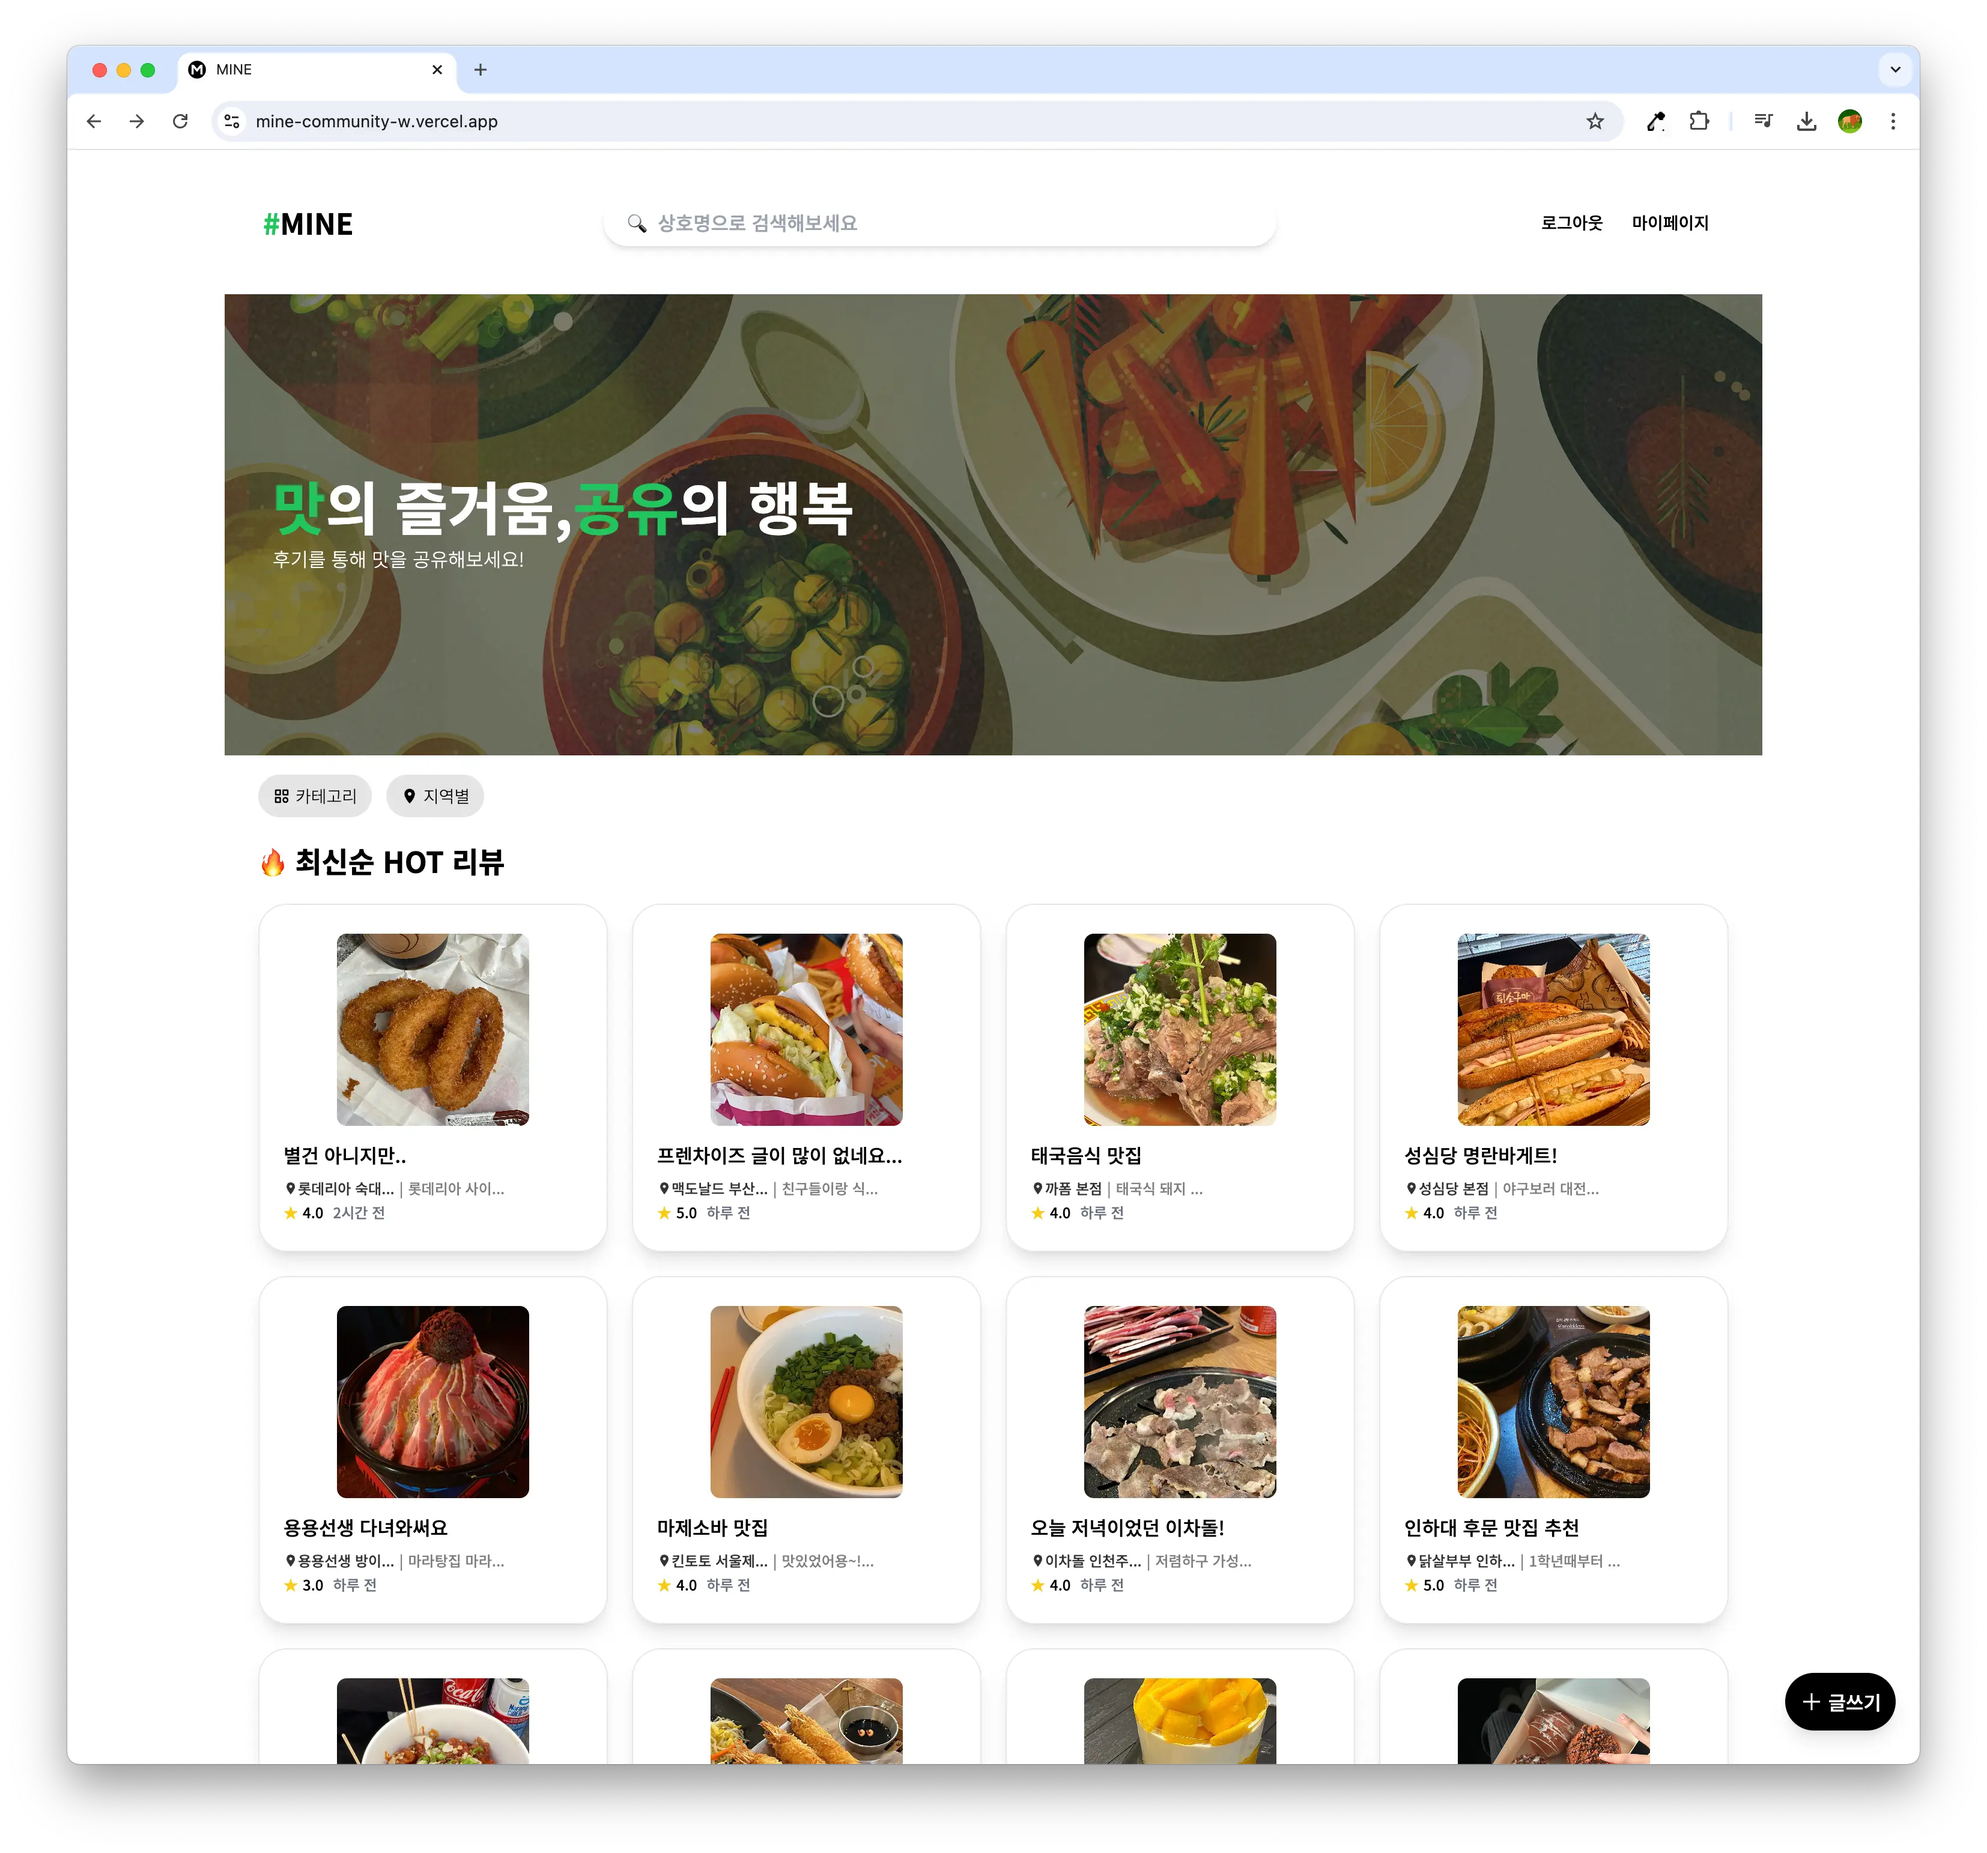
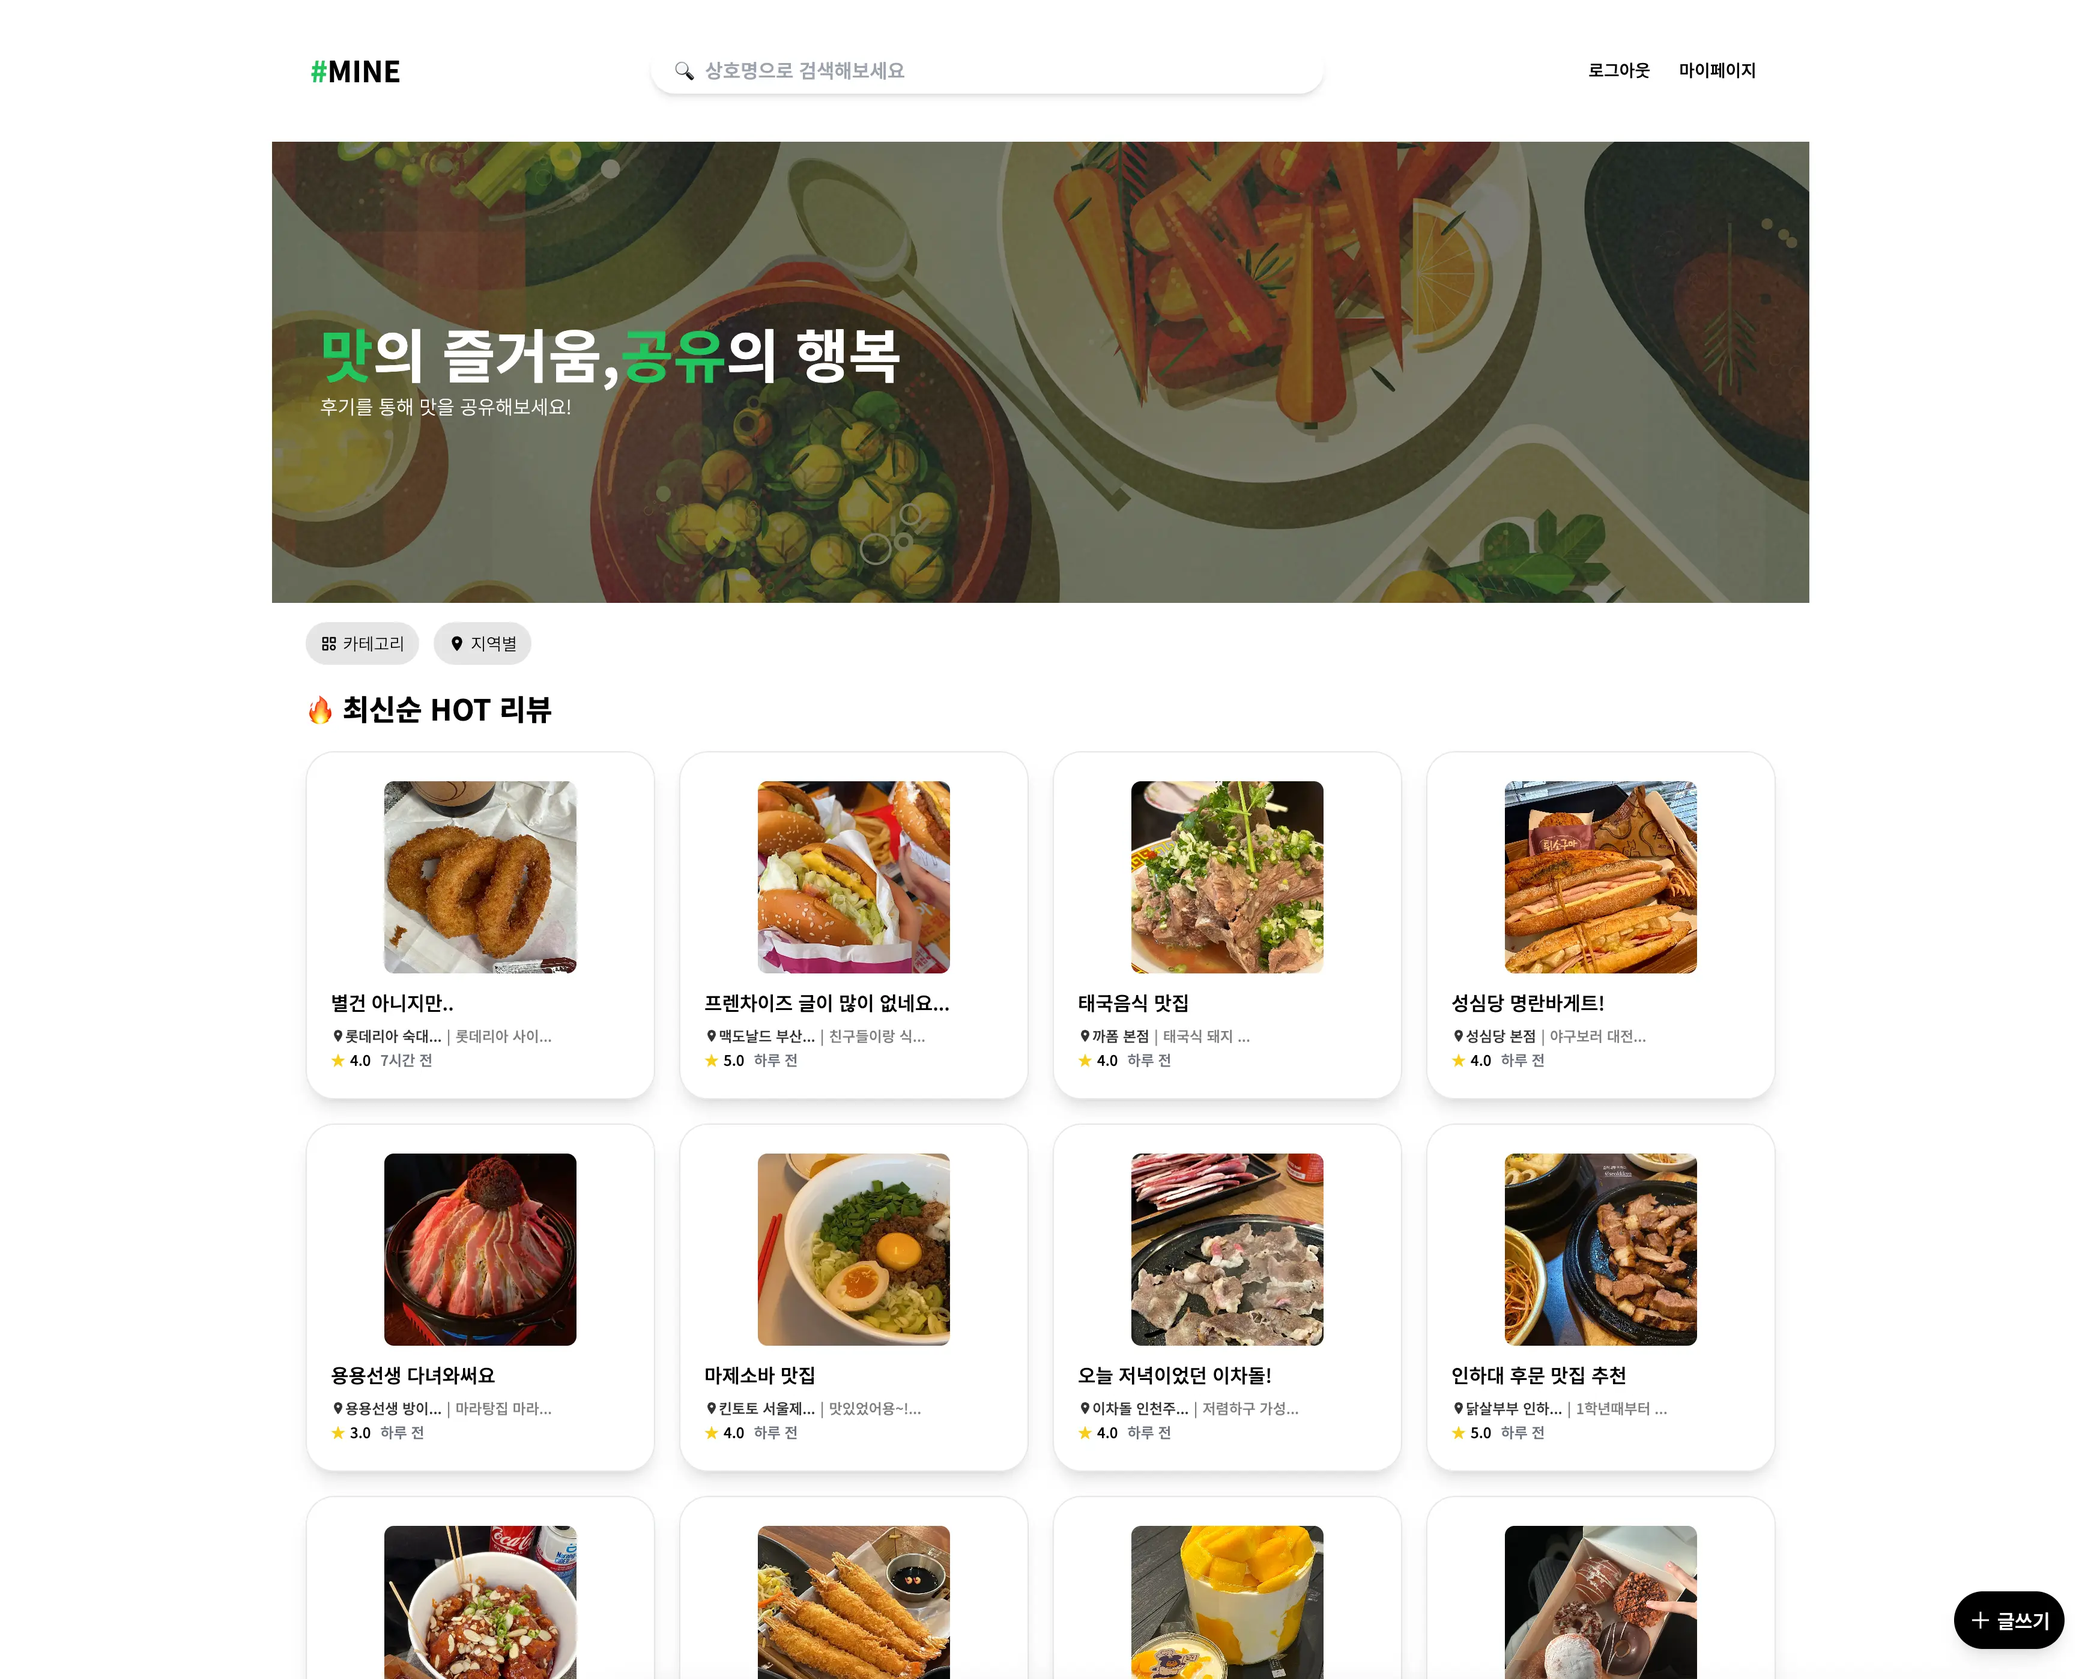
mine-pc images

diff --git a/app/project/page.tsx b/app/project/page.tsx
@@ -15,7 +15,7 @@ const Project = () => {
         </h1>
         <div className="flex flex-col md:flex-row w-full items-center">
           <MineImages />
-          <div className="w-full md:w-1/2 text-xs md:text-base">
+          <div className="w-full md:w-1/2 text-xs md:text-base ml-4">
             <p className="pt-3">
               <span className="font-semibold">
                 전국 각지 음식점들의 리뷰를 공유하는 커뮤니티 사이트
@@ -50,7 +50,7 @@ const Project = () => {
             <p className="pt-2">
               <span className="font-semibold">개발인원</span> · 1명 (개인개발)
             </p>
-            <p className="pt-2 pb-3 md:pb-5">
+            <p className="pt-2 pb-5">
               <span className="font-semibold">Skills</span>· NextJS, Typescript,
               TailwindCSS, react-query, MongoDB
             </p>

diff --git a/app/project/_component/MineImages.tsx b/app/project/_component/MineImages.tsx
@@ -17,7 +17,7 @@ const MineImages = () => {
   return (
     <div className="flex w-full md:w-1/2 relative flex-col justify-between items-center h-96 md:h-[600px]">
       <ToggleDevice isPhone={isPhone} setIsPhone={setIsPhone} />
-      <div className={`${isPhone ? 'aspect-[1/2] w-1/2' : 'aspect-[3/2.7] w-3/4'} relative`}>
+      <div className={`${isPhone ? 'aspect-[1/2] w-1/2' : 'aspect-[1.2/1] w-full'} relative`}>
         {isPhone ? (
           <Image
             src={`/new/mine/mine-mobile-${index}.webp`}
@@ -36,7 +36,7 @@ const MineImages = () => {
           />
         )}
       </div>
-      <div className="w-full flex justify-center space-x-5">
+      <div className="w-full flex justify-center space-x-5 mt-3">
         <button
           disabled={index === 1}
           className={`${index === 1 && "text-gray-400"} `}
